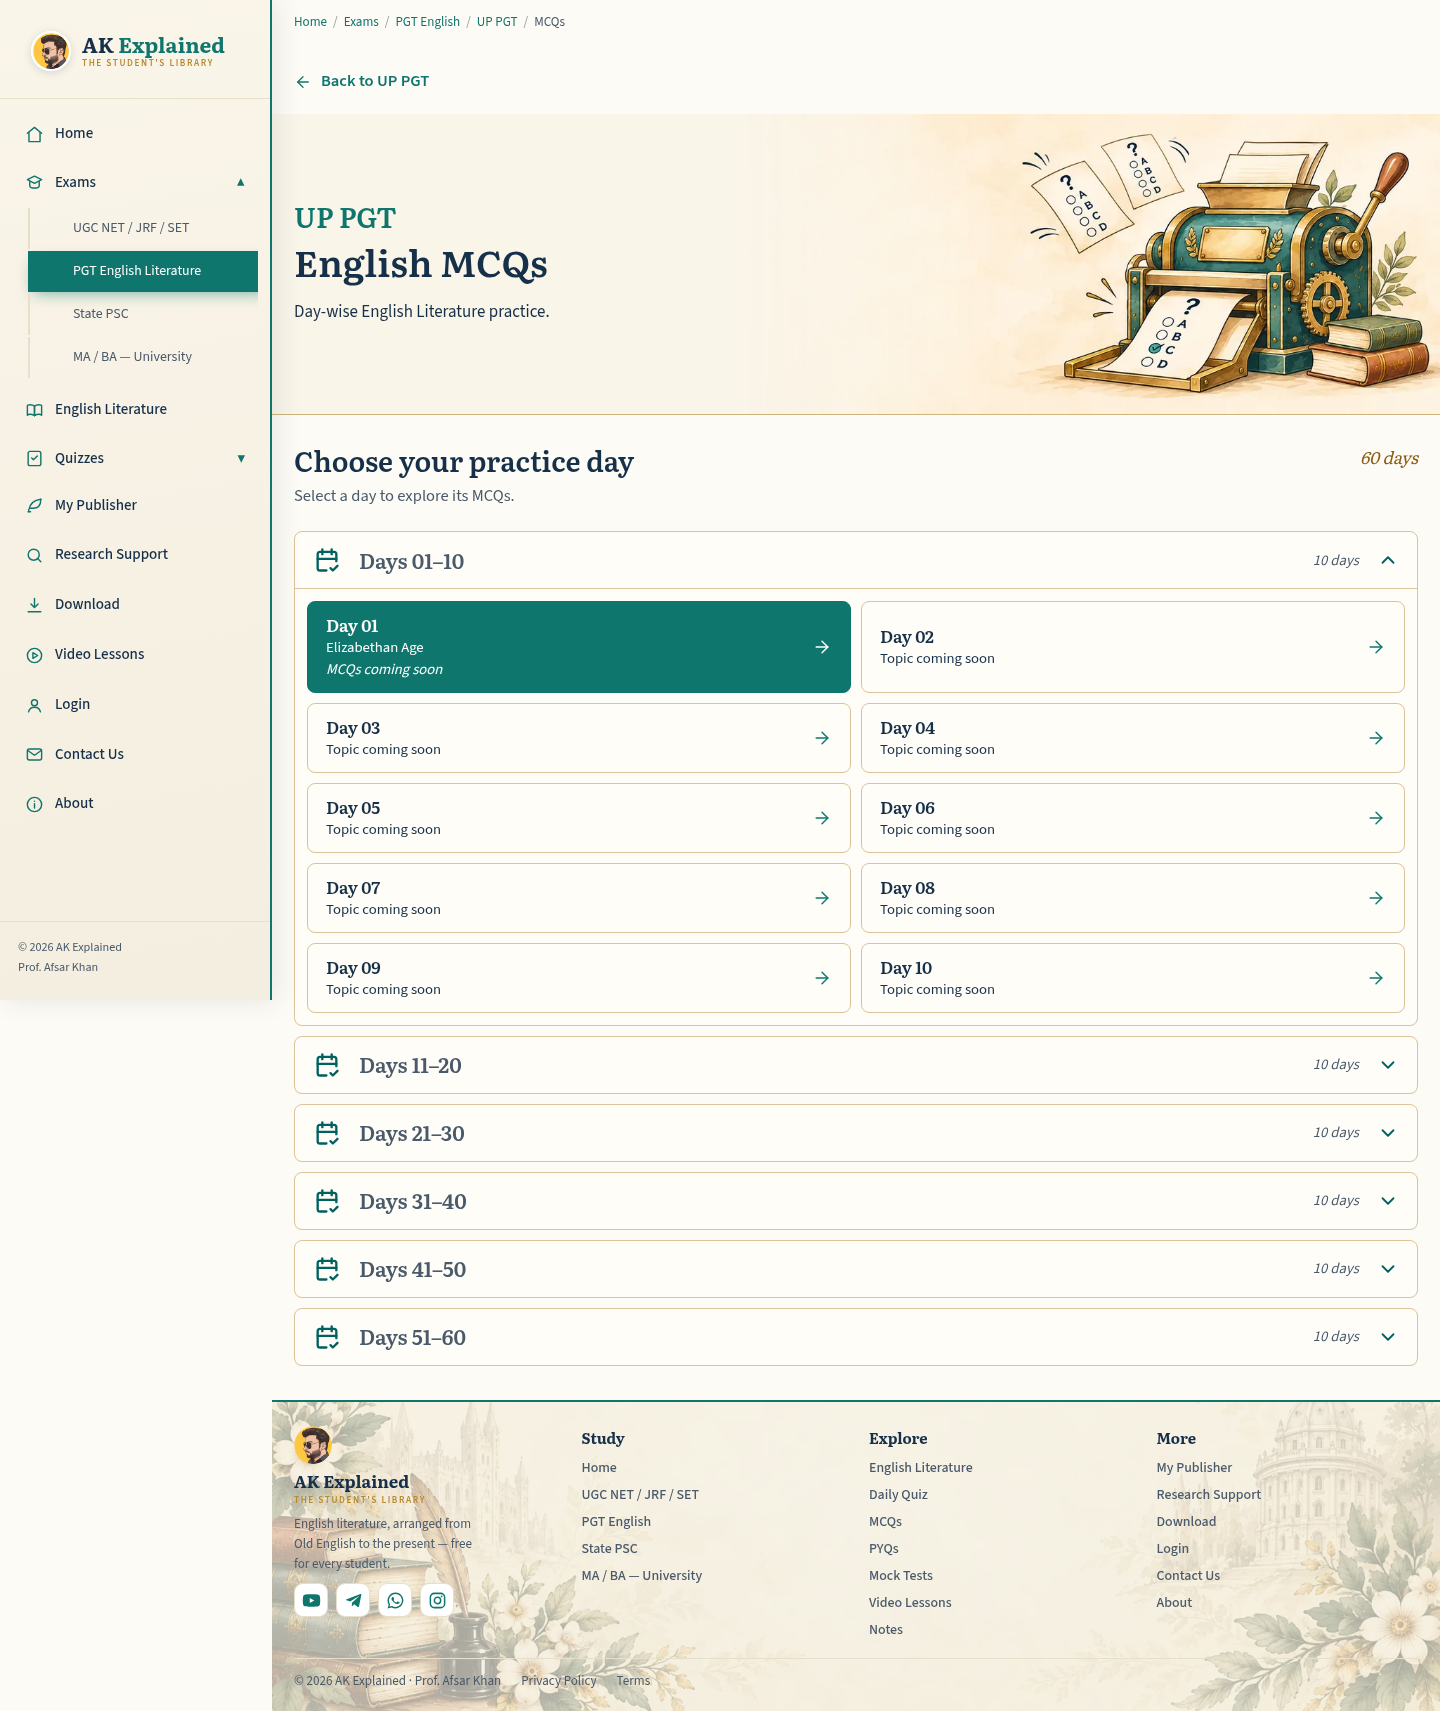
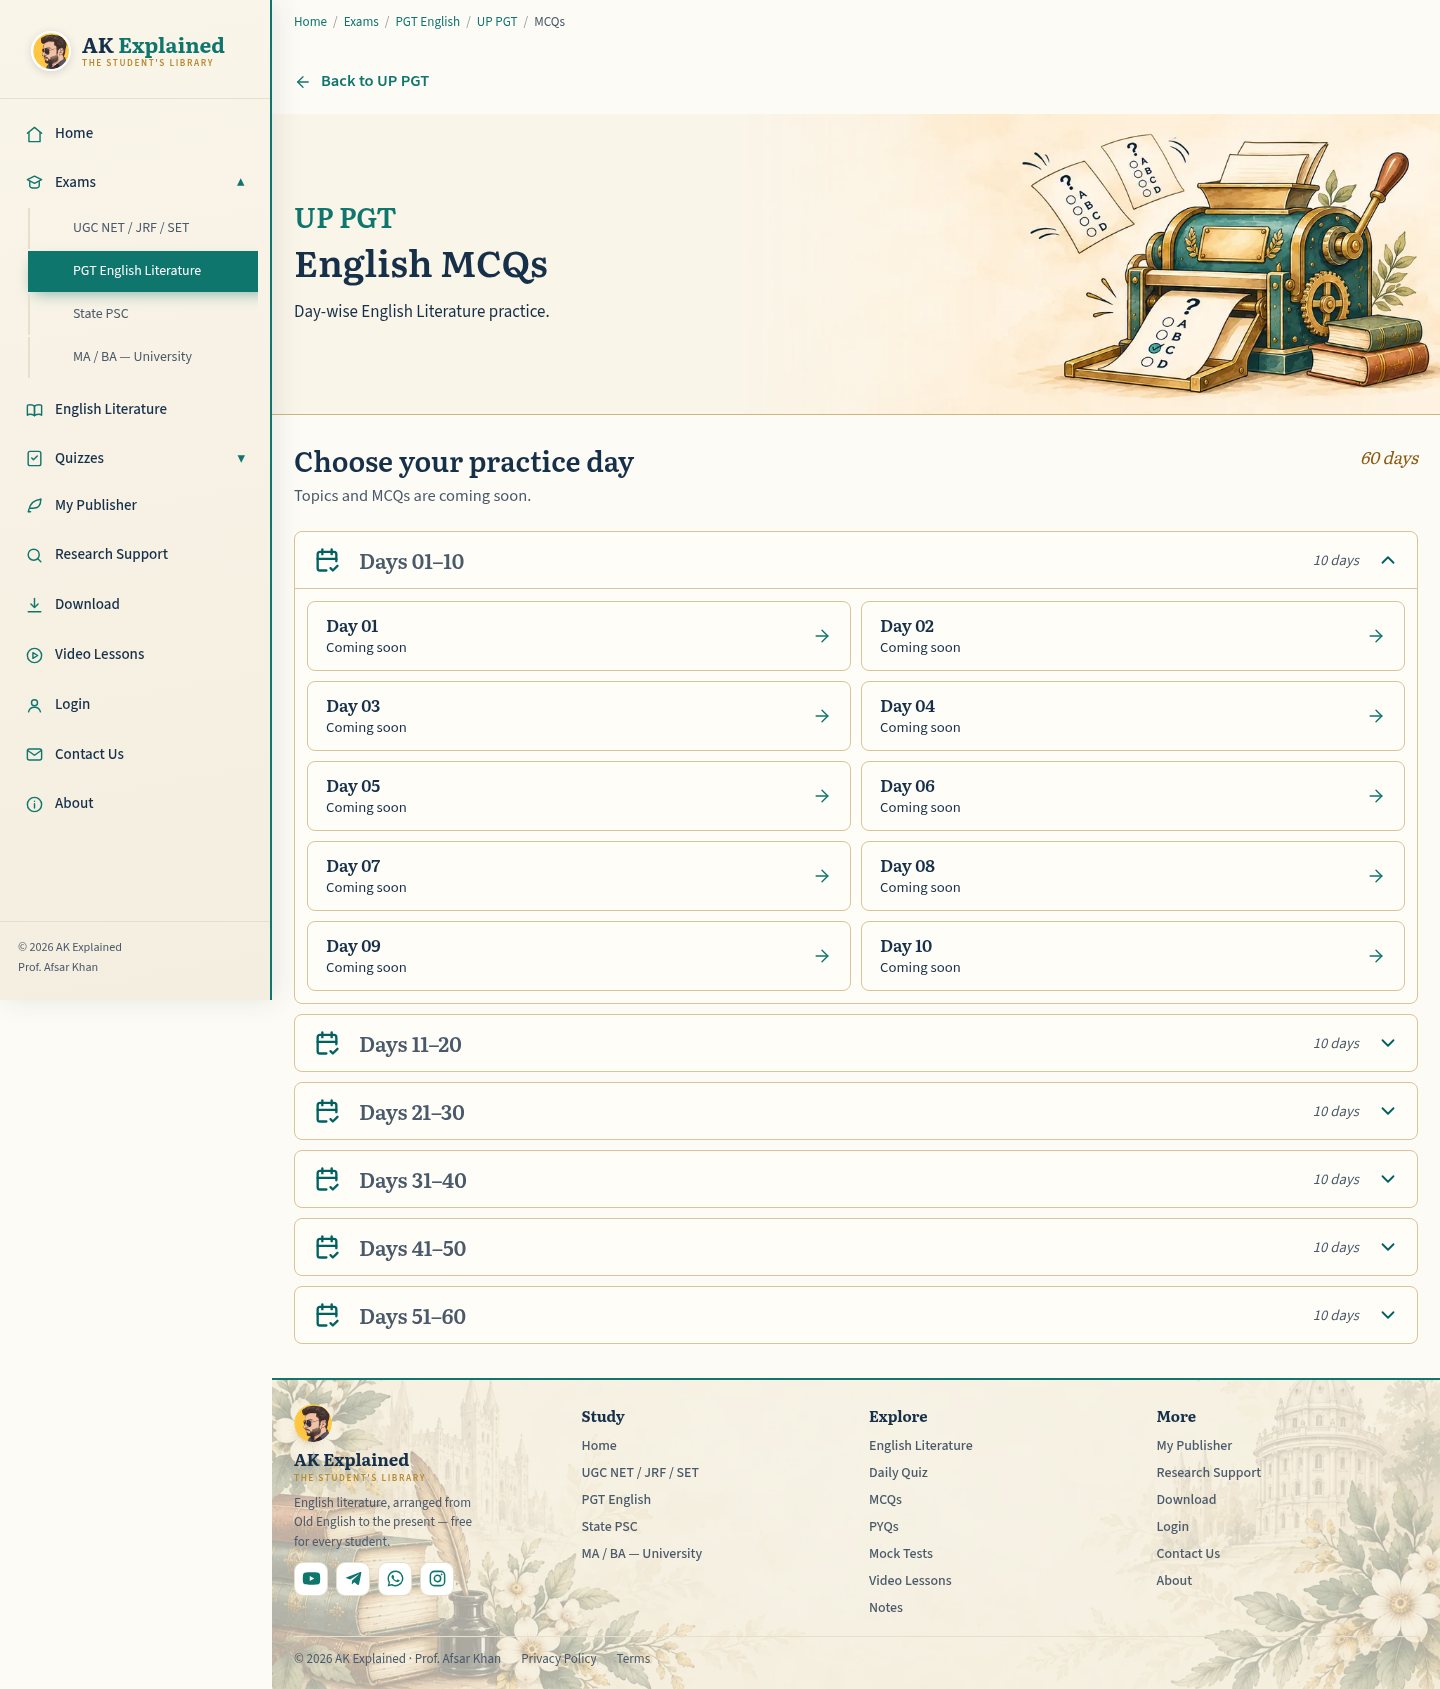
Keep all UP PGT MCQ days coming soon

diff --git a/assets/pgt.css b/assets/pgt.css
@@ -40,13 +40,8 @@
 .pgt-mcq-day:focus-visible{outline:3px solid var(--teal-dark);outline-offset:3px}
 .pgt-mcq-day-copy{display:flex;flex-direction:column;gap:2px;min-width:0}
 .pgt-mcq-day-copy strong{font-family:var(--serif);font-size:1.06rem;font-weight:600;line-height:1.3}
-.pgt-mcq-day-copy span,.pgt-mcq-day-copy em{font-size:.92rem;line-height:1.35}
-.pgt-mcq-day-copy em{font-style:italic}
+.pgt-mcq-day-copy span{font-size:.92rem;line-height:1.35}
 .pgt-mcq-day > img{width:20px;height:20px;flex:none}
-.pgt-mcq-day-first{background:var(--teal);border-color:var(--teal);color:#fff}
-.pgt-mcq-day-first strong{color:#fff}
-.pgt-mcq-day-first:hover{background:var(--teal-dark);color:#fff}
-.pgt-mcq-day-first > img{filter:brightness(0) invert(1)}
 .pgt-resource-hub{padding:30px 0 24px}
 .pgt-course-card{display:flex;align-items:center;gap:26px;min-height:122px;padding:24px 30px;margin-bottom:18px;border-bottom:5px solid #DDAA38;border-radius:10px;background:var(--teal);color:#fff;text-decoration:none}
 .pgt-course-card:hover{background:var(--teal-dark);color:#fff}

diff --git a/_data/pgtMcqDays.js b/_data/pgtMcqDays.js
@@ -3,6 +3,5 @@ module.exports = Array.from({ length: 60 }, (_, index) => {
   return {
     number,
     label: String(number).padStart(2, "0"),
-    topic: number === 1 ? "Elizabethan Age" : null,
   };
 });

diff --git a/CLAUDE.md b/CLAUDE.md
@@ -22,7 +22,7 @@ breaking it breaks a promise already made.
 - `_includes/base.njk` — layout for markdown article pages (Pages CMS publishes these)
 - Other `*/index.html` — hub and utility pages, standalone HTML
 - `exams/net/` — preparation hub and related pages use Nunjucks (`index.njk`, `about/`, `syllabus/`, and `coming-soon.njk`), with `_includes/net-layout.njk`, `_includes/net-action.njk`, `assets/net.css`, and `_data/netResources.json`. The two information pages are available; the other NET hub resources are coming soon. Do not create `exams/net/index.html` alongside its template.
-- `exams/pgt/` — exam hub in `index.njk`, with `_includes/pgt-layout.njk`, `_includes/pgt-exam-card.njk`, `assets/pgt.css` and `_data/pgtExams.json`. Only `/exams/pgt/up-pgt/` is active; the other ten state and three central destinations are non-interactive Coming soon cards. The UP PGT page has five preparation resource cards from `_data/pgtResources.json`. Its MCQ card opens `/exams/pgt/up-pgt/mcqs/`, a six-group day index driven by `_data/pgtMcqDays.js`; each of the 60 day routes is a noindex Coming soon page until questions are supplied. Day 1 is titled Elizabethan Age; Days 2–60 have no invented topic titles. The other resource destinations use `up-pgt/coming-soon.njk` until real content arrives. The former general English study guide is preserved at `/exams/pgt/up-pgt/study-guide/` and is clearly distinguished from an official UP-specific syllabus. Do not recreate `exams/pgt/index.html` beside the template.
+- `exams/pgt/` — exam hub in `index.njk`, with `_includes/pgt-layout.njk`, `_includes/pgt-exam-card.njk`, `assets/pgt.css` and `_data/pgtExams.json`. Only `/exams/pgt/up-pgt/` is active; the other ten state and three central destinations are non-interactive Coming soon cards. The UP PGT page has five preparation resource cards from `_data/pgtResources.json`. Its MCQ card opens `/exams/pgt/up-pgt/mcqs/`, a six-group day index driven by `_data/pgtMcqDays.js`; each of the 60 day routes is a noindex Coming soon page until questions are supplied. No day has a topic assigned yet; the owner will decide each topic when its questions are uploaded. The other resource destinations use `up-pgt/coming-soon.njk` until real content arrives. The former general English study guide is preserved at `/exams/pgt/up-pgt/study-guide/` and is clearly distinguished from an official UP-specific syllabus. Do not recreate `exams/pgt/index.html` beside the template.
 - `quizzes/mcq/<age>/…` (hub, `build/`, `custom/`, `set-<n>/`) is **generated**, not hand-written:
   templates in `quizzes/mcq/_templates/` and `_includes/mcq-page.njk`, data in `_data/mcqSpec.json`
   (see rule 7). Change the template or the registry, never a generated page.

diff --git a/docs/accounts-status.md b/docs/accounts-status.md
@@ -4,12 +4,12 @@ A dated snapshot so a new session (or a different AI) can pick up without re-rea
 The **rules** live in `CLAUDE.md` (rules 9–14); this file is only *current state + what is pending*.
 Keep it updated when the state changes.
 
-_Last updated: 2026-11-08 (The UP PGT MCQ day index is prepared on a feature branch. The resource cards and card scale correction remain live.)_
+_Last updated: 2026-11-08 (The owner approved publication of the UP PGT MCQ day index. The resource cards and card scale correction remain live.)_
 
-## UP PGT MCQ day index — awaiting publication (2026-11-08)
+## UP PGT MCQ day index — publication approved (2026-11-08)
 
-- The owner selected the professional MCQ press design: a right-side quiz machine illustration in the existing compact hero, with live `UP PGT` / `English MCQs` text on the left. The MCQ card now leads to a day index with six expandable groups of ten day links, all 60 present on one page. Day 1 is Elizabethan Age; Days 2–60 have no supplied topics.
-- Each day opens a noindex Coming soon page because MCQ questions were not supplied. All other UP PGT resource pages and the shared default footer remain. The branch `feat/up-pgt-mcq-days` is not merged to `main`; the owner has not instructed this new page to go live.
+- The owner selected the professional MCQ press design: a right-side quiz machine illustration in the existing compact hero, with live `UP PGT` / `English MCQs` text on the left. The MCQ card leads to a day index with six expandable groups of ten day links, all 60 present on one page. Every day says Coming soon; no topic is assigned until its questions are uploaded, as the owner instructed.
+- Each day opens a noindex Coming soon page because MCQ questions were not supplied. All other UP PGT resource pages and the shared default footer remain. The owner explicitly asked to make this revised page live on 2026-11-08 through PR #24 (`feat/up-pgt-mcq-days`); merging it to `main` triggers Cloudflare Pages publication.
 - Screenshots, responsive measurements, route checks and design QA evidence are in `docs/up-pgt-mcq-days/`.
 
 ## UP PGT card scale — publication approved (2026-11-07)

diff --git a/design-qa.md b/design-qa.md
@@ -5,8 +5,8 @@ final result: passed
 ## UP PGT MCQ day index — 2026-11-08
 
 - Approved visual proposal: `docs/up-pgt-mcq-days/reference.png`; final local browser captures: `1440.png` and `390.png`; side-by-side composition check: `comparison.png`. The quiz press artwork is a separate optimized WebP image, while the `UP PGT` and `English MCQs` heading remains selectable HTML. The hero keeps the existing compact UP PGT subpage height, site fonts, sidebar, content insets and shared footer.
-- The MCQ resource card opens six native expandable groups covering Days 01–60. Day 01 is labelled Elizabethan Age; the remaining topic labels are explicitly pending. All day links have individual noindex Coming soon routes, ready for later question sets without inventing topics or questions.
-- Chromium checks at 320, 390, 768, 1024 and 1440px found 60 day links, six groups, a loaded hero image, the default footer, no horizontal overflow and no page errors. Opening the last group exposes Day 60; its route, noindex marker and footer work. Day 1 shows Elizabethan Age. Measurements and results: `docs/up-pgt-mcq-days/checks.json`. No actionable visual issues remain; final result: passed.
+- The MCQ resource card opens six native expandable groups covering Days 01–60. The owner clarified that topics are chosen only when questions are uploaded, so all day cards now say Coming soon. The sample Elizabethan Age label and Day 1 highlight in the visual proposal are deliberately absent. All day links have individual noindex Coming soon routes, ready for later question sets.
+- Chromium checks at 320, 390, 768, 1024 and 1440px found 60 day links, six groups, a loaded hero image, the default footer, no horizontal overflow and no page errors. Opening the last group exposes Day 60; its route, noindex marker and footer work. Day 1 and Day 60 both show the pending topic and MCQ message. Measurements and results: `docs/up-pgt-mcq-days/checks.json`. No actionable visual issues remain; final result: passed.
 
 ## UP PGT type and spacing correction — 2026-11-07
 
